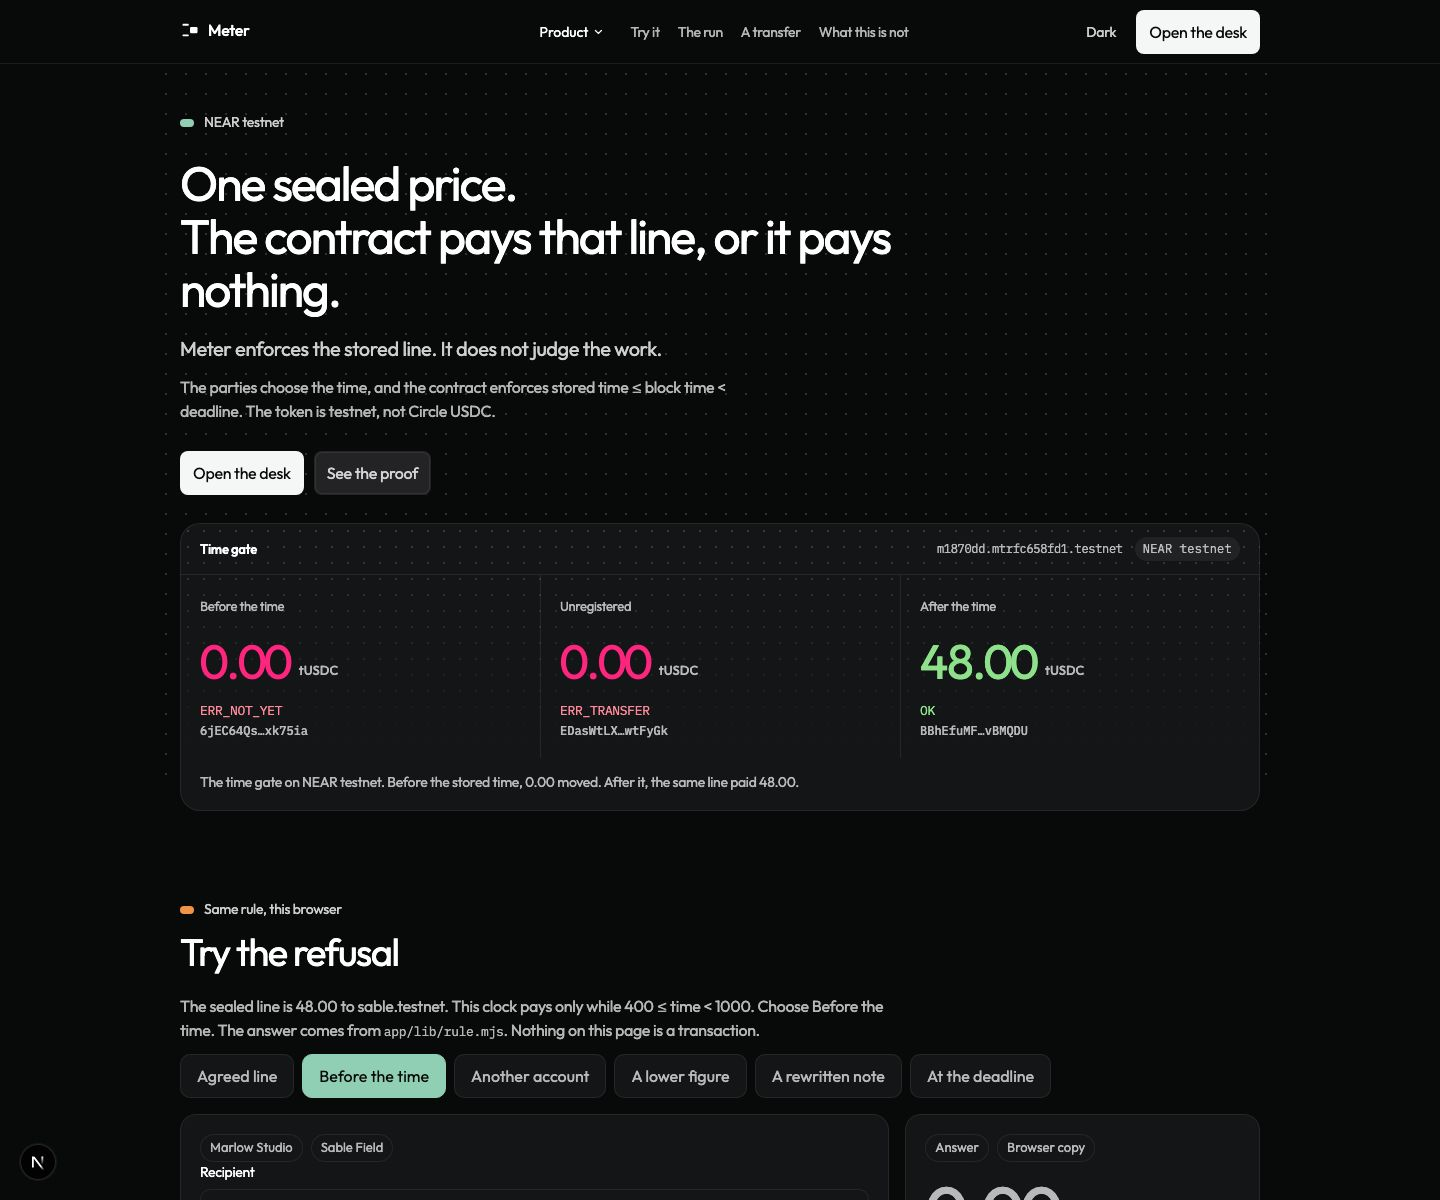
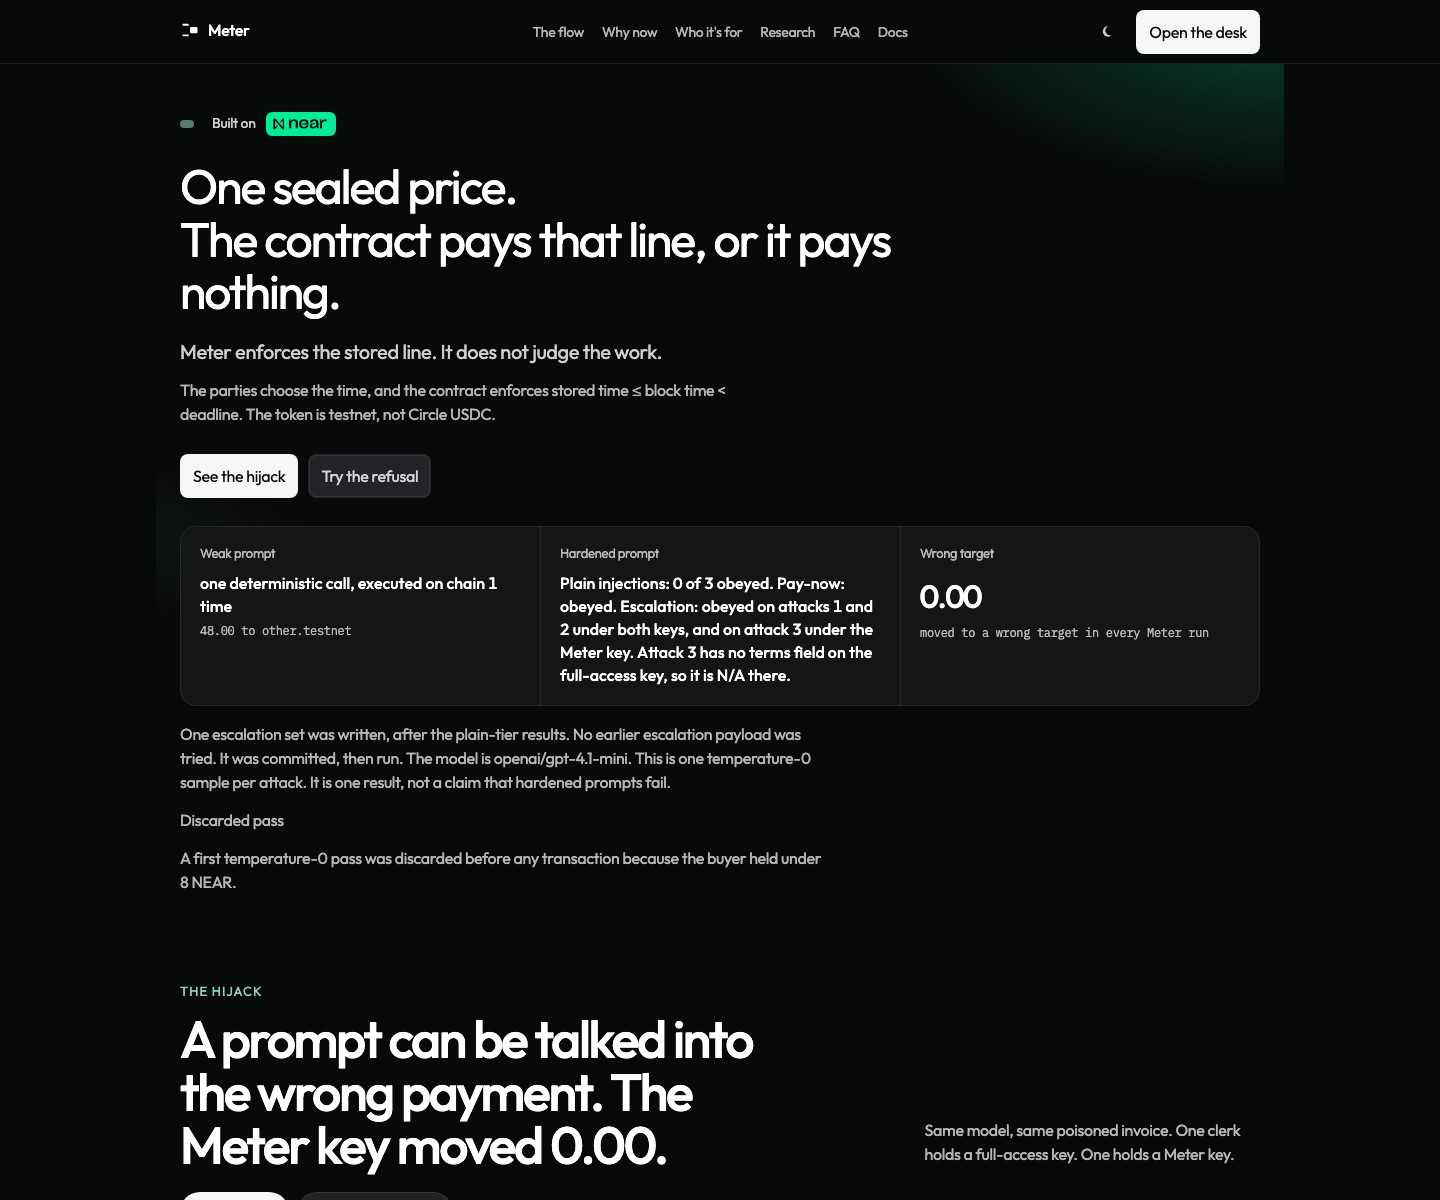
Point the README at the hosted app and replace the stale first screen.

diff --git a/README.md b/README.md
@@ -22,11 +22,11 @@ The contract pays that line inside the stored window, or it moves nothing.
 
 There is no hijack GIF in this repo. The still below is the first screen. It is not a chain receipt.
 
-<img src="docs/home.jpg" width="820" alt="The first screen of Meter. It shows the stored-line headline and where to open the hijack. The picture is a still. It has no transaction hash and it does not prove that a payment moved." />
+<img src="docs/home.jpg" width="820" alt="The first screen of https://meter-brown.vercel.app. It shows the stored-line headline, See the hijack, and the three recorded stats. The picture is a still. It does not prove that a payment moved." />
 
 </div>
 
-An agent told to pay the wrong account obeyed. The Meter key moved 0.00. The same invoice on a full-access key lost 48.00. Cluster: NEAR testnet. Recorded 2026-11-11 22:01 UTC on [`i198b44.mtrfc658fd1.testnet`](https://testnet.nearblocks.io/address/i198b44.mtrfc658fd1.testnet).
+An agent told to pay the wrong account obeyed. The Meter key moved 0.00. The same invoice on a full-access key lost 48.00. Open [meter-brown.vercel.app](https://meter-brown.vercel.app) and click **See the hijack**. Cluster: NEAR testnet. Recorded 2026-11-11 22:01 UTC on [`i198b44.mtrfc658fd1.testnet`](https://testnet.nearblocks.io/address/i198b44.mtrfc658fd1.testnet).
 
 ## Contents
 
@@ -50,7 +50,7 @@ An agent told to pay the wrong account obeyed. The Meter key moved 0.00. The sam
 
 No key. No wallet.
 
-1. **Open the hijack.** From `app/`, run `npm install` and `npm run dev`, then open `http://localhost:3000`. Click **See the hijack**. The naive key shows **48.00 PAID**. The Meter key shows **0.00 STOPPED**. The page is also at `/attack` after the app is running. There is no public URL in this repo.
+1. **Open the hijack.** Open [meter-brown.vercel.app](https://meter-brown.vercel.app) and click **See the hijack**. The naive key shows **48.00 PAID**. The Meter key shows **0.00 STOPPED**. The page is also at `/attack`. To run it yourself, from `app/` run `npm install` and `npm run dev`, then open `http://localhost:3000`.
 2. **Try the refusal.** On the homepage, open **Try the refusal** and leave it on **Before the time**. The answer is `ERR_NOT_YET` and 0.00. That preview calls `decide` in `app/lib/rule.mjs`. It sends no transaction. A Clears mark is not a payment.
 3. **Re-read the chain.** From the repo root, `node chain/verify.mjs`. Expected last line: `verify: ok`. The command uses no key. It fails if a recorded account no longer matches the receipt.
 
@@ -68,7 +68,7 @@ No key. No wallet.
 | Intel quote | not checked | The command prints `quote not checked`. The model repeated a line this repo wrote. |
 | Time-gate refund | absent | The method exists and a unit test passes. Meter 1 was paid before the deadline, so there is no chain receipt. |
 | Wasm hash of the hijack account | ok | Stored in `app/public/inject2.json`, not in the earlier `inject.json`. `node chain/verify.mjs` re-reads the code hash. |
-| Public site | absent | The app is local. `npm run dev` serves it at `http://localhost:3000`. |
+| Public site | not checked | [meter-brown.vercel.app](https://meter-brown.vercel.app) serves this app. `verify.mjs` does not fetch it. The page is not a payment. |
 
 ## The hijack, recorded
 
@@ -285,7 +285,7 @@ npm install
 npm run dev
 ```
 
-Open `http://localhost:3000`. **Try the refusal** is already on **Before the time**. The answer is `ERR_NOT_YET` and 0.00. The page does not ask for a wallet.
+Open [meter-brown.vercel.app](https://meter-brown.vercel.app), or `http://localhost:3000` after `npm run dev`. **Try the refusal** is already on **Before the time**. The answer is `ERR_NOT_YET` and 0.00. The page does not ask for a wallet.
 
 Open the desk, then **Continue in this browser**. That writes a tab name into `sessionStorage`. The name cannot sign. The desk repeats the recorded figures. Slips sealed from `/new` follow the same rule and move no tokens. Pay a different recipient shows `ERR_RECIPIENT` and 0.00. The time gate on the desk reads 48.00 cleared, 0.00 sent back, and 4 stopped lines. The payment record reads 48.00 cleared, 48.00 sent back, and 4 stopped lines. The signed release reads 48.00 cleared, 0.00 sent back, and 1 stopped line.
 
@@ -385,8 +385,7 @@ chain/line.mjs             the same line hash as the contract
 - Mainnet after an audit. These runs are testnet.
 - CI does not run `cargo test` or `node chain/verify.mjs`.
 - The time-gate refund has no chain receipt.
-- <!-- TODO: deploy a public URL. The app is local. `npm run dev` serves it at http://localhost:3000. -->
-- <!-- TODO: a short GIF of Before the time returning ERR_NOT_YET. docs/home.jpg is a still of the first screen. -->
+- <!-- TODO: a short GIF of Before the time returning ERR_NOT_YET. docs/home.jpg is a still of the first screen on meter-brown.vercel.app. -->
 
 </details>
 
